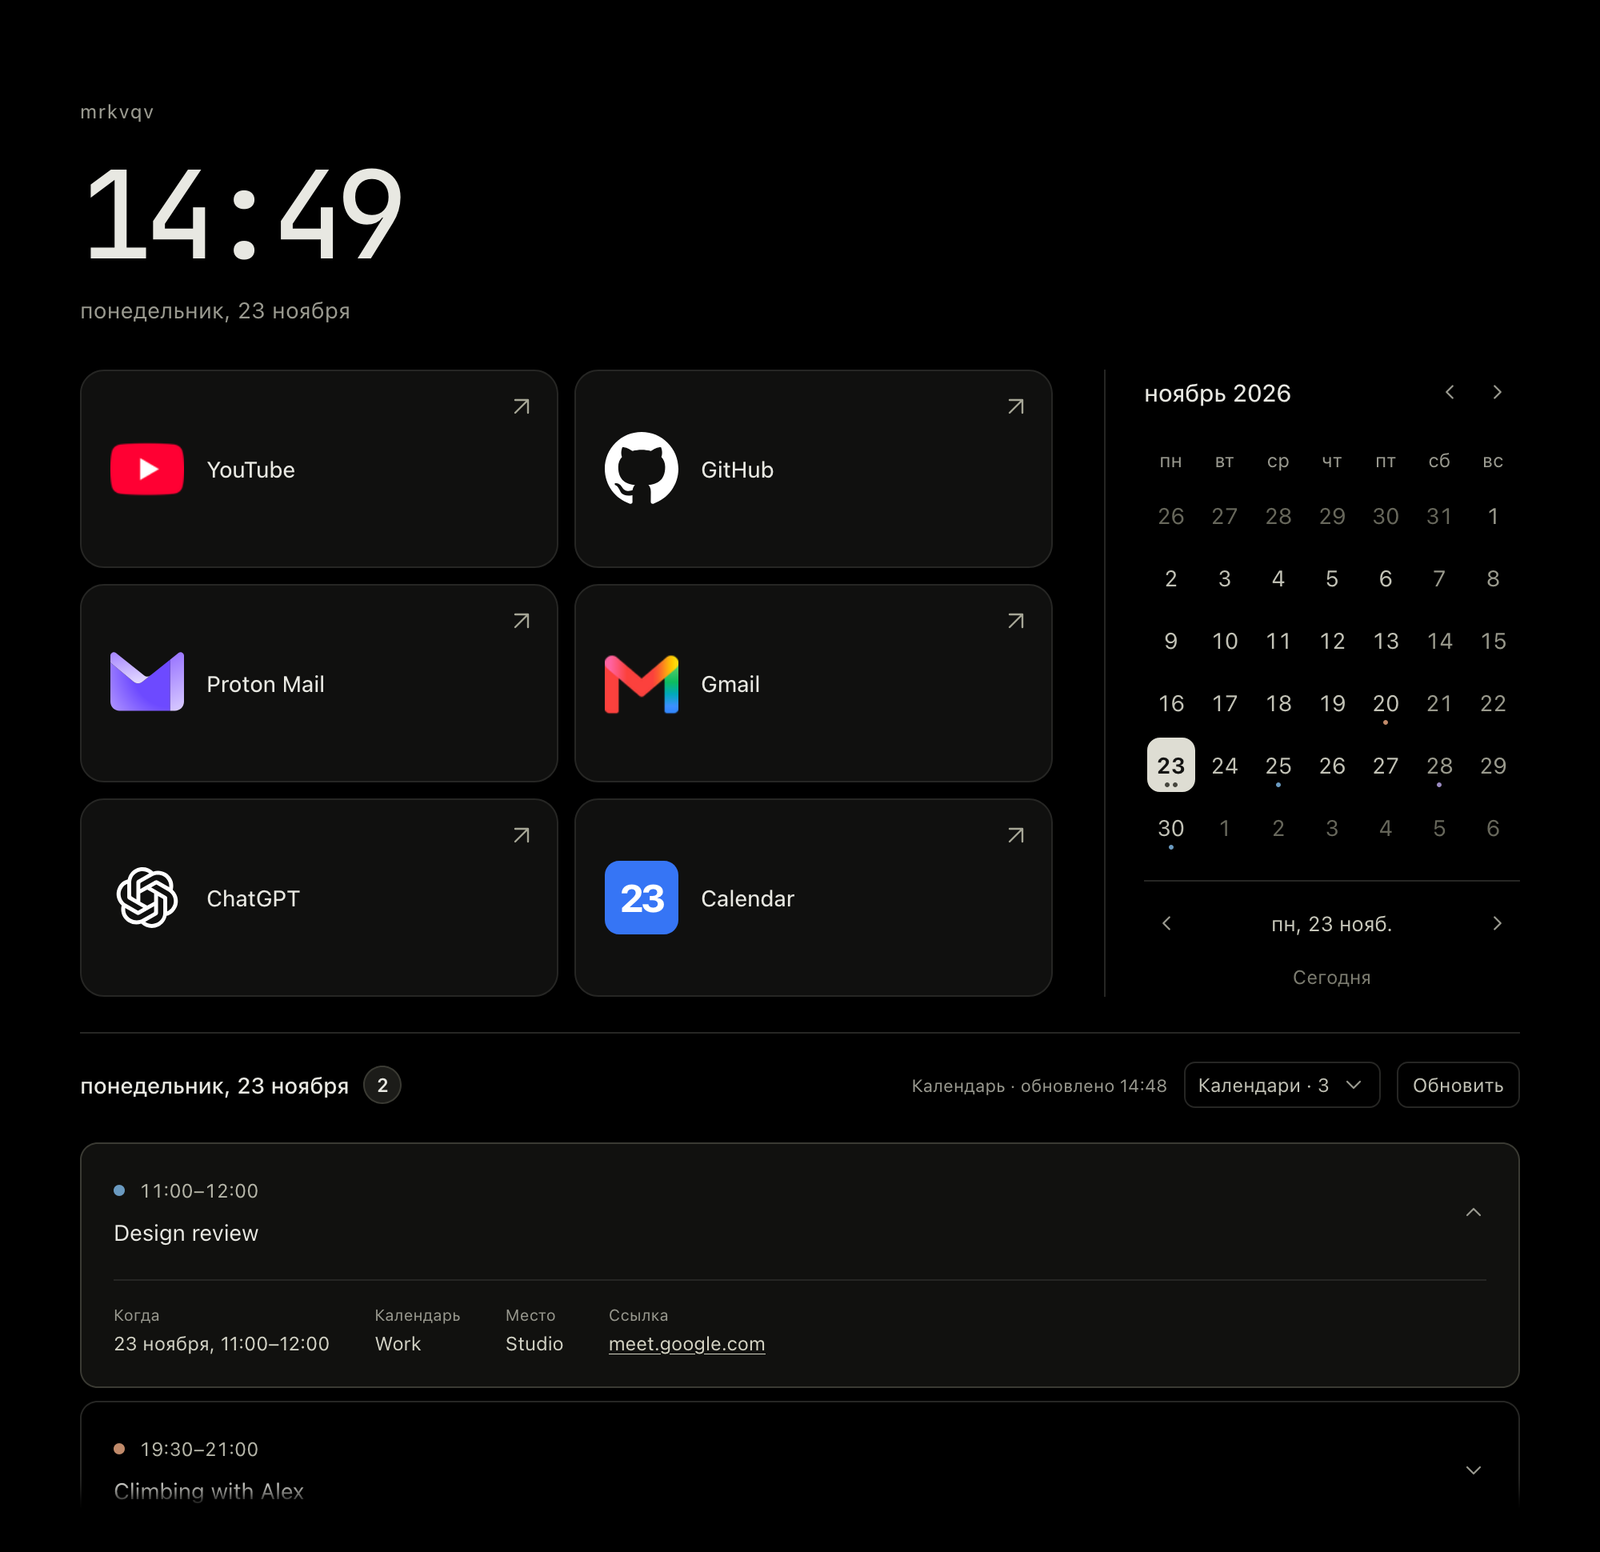
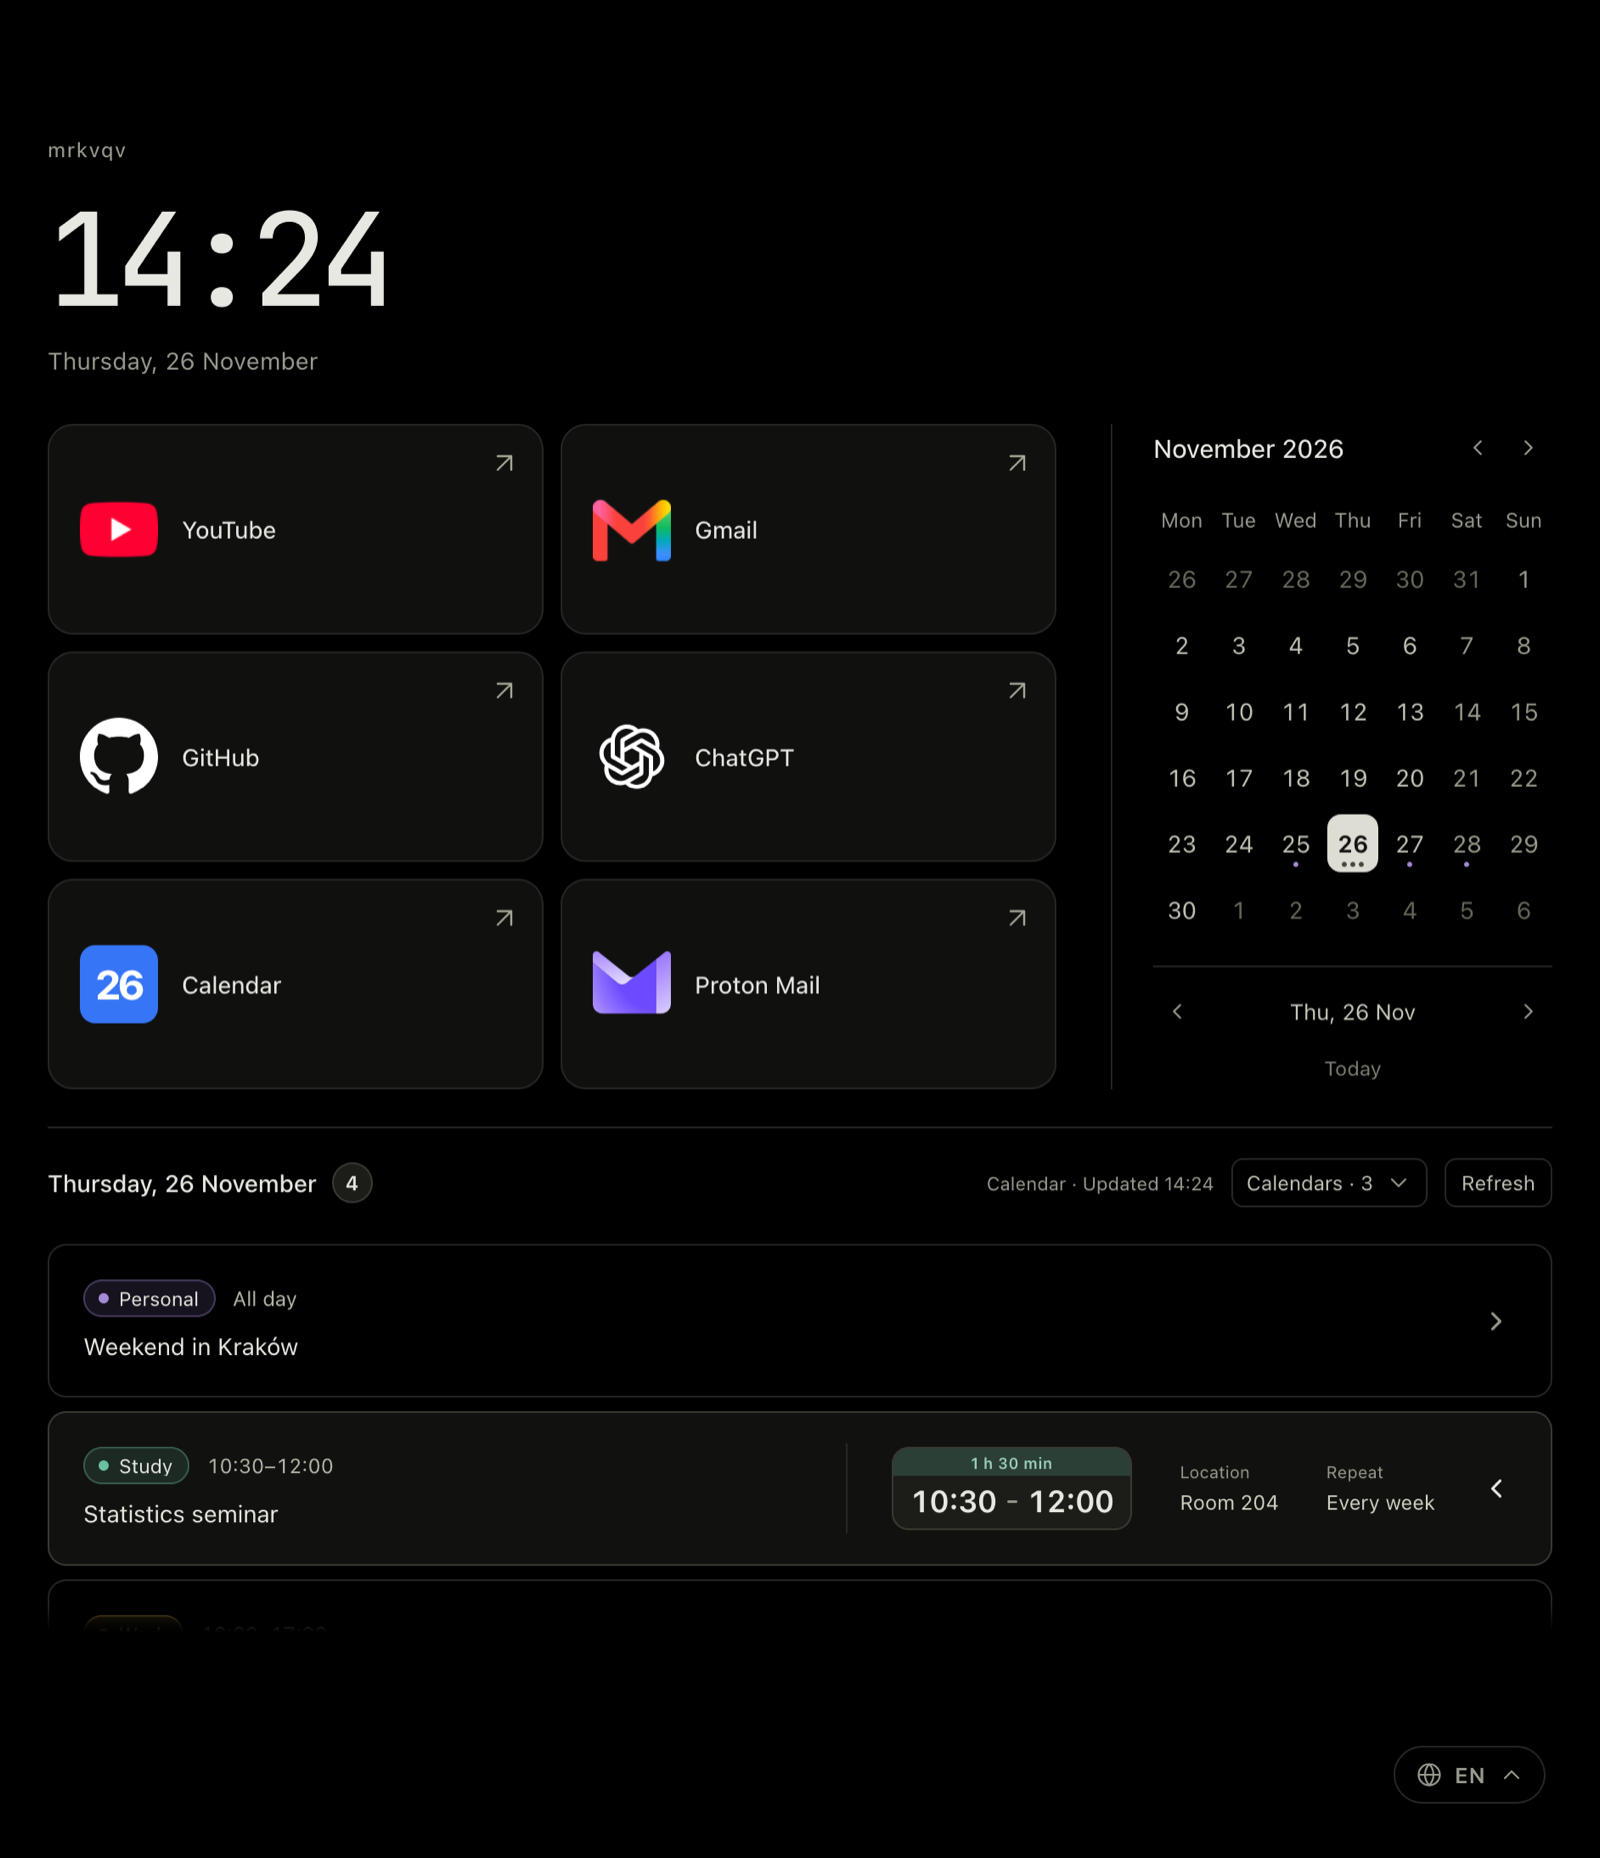
Simplify README and update preview

diff --git a/README.md b/README.md
@@ -3,116 +3,49 @@
 [![Latest release](https://img.shields.io/github/v/release/mrkvqv/zen-home?label=version)](https://github.com/mrkvqv/zen-home/releases/latest)
 [![License: MIT](https://img.shields.io/github/license/mrkvqv/zen-home)](LICENSE)
 
-A personal start page for [Zen Browser](https://zen-browser.app), built as a Firefox extension: a clock, your Zen Essentials and Apple Calendar events — fast, local and with no external requests.
+A start page for [Zen Browser](https://zen-browser.app): a clock, your Zen Essentials and Apple Calendar events. Everything stays on your Mac.
 
-![Zen Home in the dark theme](docs/preview.png)
+![Zen Home](docs/preview.png)
 
 ## Features
 
-- **Opens where you expect it**: at Zen startup, from the toolbar button and with <kbd>⌃</kbd><kbd>⇧</kbd><kbd>H</kbd>. Keeps a single start tab in the current Space instead of piling up duplicates.
-- **Essentials**: shows the tabs pinned to Zen Essentials. A click switches to the already open pinned tab, <kbd>⌘</kbd>-click opens the site in a new tab.
-- **Calendar**: month grid with event dots and a day agenda. Each card shows its calendar as a colored tag; a click slides the details in from the right: a date or time tile, location, link, recurrence, alerts and attendees.
-- **Four languages**: Russian, English, Polish and Belarusian, switched from the bottom-right corner. Dates and plural forms follow the language.
-- **Light and dark theme** that follow macOS automatically.
-- **Light on resources**: plain JavaScript modules with no framework and no build step; data refreshes every 30 seconds only while the page is visible.
+- Opens at startup and with <kbd>⌃</kbd><kbd>⇧</kbd><kbd>H</kbd>, one start tab per Space.
+- Essentials as cards: a click switches to the pinned tab.
+- Month calendar and day agenda. Event details slide in from the right: time or dates, location, recurrence and more.
+- Choose which calendars are shown.
+- English, Russian, Polish and Belarusian.
+- Light and dark theme from macOS.
 
-## How it works
+## Install
 
-```
-Zen Browser                              macOS
-┌──────────────────────────┐   HTTP    ┌────────────────────────────┐
-│ Zen Home extension       │ ────────▶ │ Zen Calendar Bridge.app    │
-│  home.html + js/*.js     │ 127.0.0.1 │  EventKit → Apple Calendar │
-│  background.js (tabs)    │   :8766   │  Zen session → Essentials  │
-└──────────────────────────┘ ◀──────── └────────────────────────────┘
-```
+Requires macOS 14+, Xcode Command Line Tools, Node.js 20+ and [pnpm](https://pnpm.io).
 
-The extension cannot read Apple Calendar or tell Essentials apart from ordinary pinned tabs, so a tiny native helper does that: **Zen Calendar Bridge**, a Swift app that runs in the background.
+1. Download `zen-home-X.Y.Z.xpi` from [Releases](https://github.com/mrkvqv/zen-home/releases/latest) and drag it into a Zen window.
+2. Install the calendar bridge — a small local app that reads Apple Calendar and Essentials:
 
-- It listens only on `127.0.0.1:8766` and requires a bearer token.
-- It accepts requests only from the extension's own origin.
-- It is read-only and never writes to the calendar.
-- Events are not stored on disk; the page keeps them in memory only. Only the list of Essentials is cached, so the page appears instantly.
+   ```sh
+   git clone https://github.com/mrkvqv/zen-home.git && cd zen-home
+   pnpm install
+   pnpm bridge:install
+   open ~/Applications/"Zen Calendar Bridge.app"   # allow Calendar access once
+   launchctl bootstrap gui/$(id -u) ~/Library/LaunchAgents/local.zen-calendar-bridge.plist
+   ```
 
-Google calendars work too: add your Google account in macOS **System Settings → Internet Accounts**, and its calendars show up in Apple Calendar and on this page.
+3. Run `pnpm bridge-key`, open the start page and paste the key.
 
-## Setup
+The bridge listens only on `127.0.0.1`, needs this key and never writes to your calendar.
 
-Requirements: macOS 14+, Xcode Command Line Tools (`xcode-select --install`), Node.js 20+ and [pnpm](https://pnpm.io).
+## Development
 
-```sh
-git clone https://github.com/mrkvqv/zen-home.git
-cd zen-home
-pnpm install
-```
+Load `src/manifest.json` in `about:debugging` → **Load Temporary Add-on**. Release builds of Zen need a signed copy: run `pnpm build` and upload the `.zip` to [addons.mozilla.org](https://addons.mozilla.org/developers/) as an unlisted add-on.
 
-### 1. Install the calendar bridge
-
-```sh
-pnpm bridge:install
-open ~/Applications/"Zen Calendar Bridge.app"   # allow Calendar access once
-launchctl bootstrap gui/$(id -u) ~/Library/LaunchAgents/local.zen-calendar-bridge.plist
-```
-
-The installer builds the app into `~/Applications`, creates a private token in `~/Library/Application Support/ZenCalendarBridge` and adds a LaunchAgent that keeps the bridge running. Check it with `pnpm bridge:test`.
-
-### 2. Try the extension
-
-1. In Zen, open `about:debugging#/runtime/this-firefox`.
-2. Click **Load Temporary Add-on…** and pick `src/manifest.json`.
-3. Press <kbd>⌃</kbd><kbd>⇧</kbd><kbd>H</kbd>, run `pnpm bridge-key` to copy the token, paste it on the page and click **Save**.
-
-A temporary add-on is removed when Zen restarts.
-
-### 3. Install it permanently
-
-Release builds of Zen only install add-ons signed by Mozilla. Signing is free, and an unlisted add-on is never published in the catalog.
-
-**Ready-made build**: download the signed `.xpi` from [Releases](https://github.com/mrkvqv/zen-home/releases/latest) and drag it into a Zen window. To sign your own changes, use one of the options below.
-
-**Through the website**: run `pnpm build`, then on [addons.mozilla.org](https://addons.mozilla.org/developers/addon/submit/distribution) choose **On your own** and upload `dist/zen_home-<version>.zip`. Once it is approved, install the signed `.xpi` from the version page.
-
-**From the command line**: create [API credentials](https://addons.mozilla.org/developers/addon/api/key/), copy `.env.example` to `.env`, fill in both values and run `pnpm sign`. The signed `.xpi` appears in `dist/`.
-
-Bump `version` in `src/manifest.json` before signing every new release.
-
-## Project structure
-
-```
-src/                  the extension
-├── manifest.json     permissions, home page override, keyboard shortcut
-├── background.js     a single start tab, switching to Essentials
-├── home.html         page markup
-├── home.css          styles, light and dark theme
-├── js/
-│   ├── home.js       entry point that wires the modules together
-│   ├── calendar.js   clock, date and month grid
-│   ├── agenda.js     day agenda, event cards, calendar list
-│   ├── pins.js       Essentials cards
-│   ├── bridge.js     requests to the local bridge
-│   └── dom.js        shared helpers
-└── assets/           clock font (JetBrains Mono, OFL) and service icons
-bridge/               Zen Calendar Bridge (Swift) with installer and tests
-scripts/              signing and token helpers
-```
-
-## Commands
-
-| Command               | What it does                                        |
-| --------------------- | --------------------------------------------------- |
-| `pnpm start`          | runs a separate Zen with a temporary profile        |
-| `pnpm lint`           | checks the extension against Mozilla's rules        |
-| `pnpm build`          | builds an unsigned `.zip` in `dist/`                |
-| `pnpm sign`           | signs the extension with Mozilla (needs `.env`)     |
-| `pnpm format`         | formats the code with Prettier                      |
-| `pnpm bridge:install` | builds and installs Zen Calendar Bridge             |
-| `pnpm bridge:test`    | checks the running bridge without printing any data |
-| `pnpm bridge-key`     | copies the bridge token to the clipboard            |
-
-## Keyboard shortcut
-
-<kbd>⌃</kbd><kbd>⇧</kbd><kbd>H</kbd> (Control+Shift+H) by default. Change it in `about:addons` → gear icon → **Manage Extension Shortcuts**.
+| Command            | What it does                      |
+| ------------------ | --------------------------------- |
+| `pnpm start`       | runs Zen with a temporary profile |
+| `pnpm lint`        | checks the extension              |
+| `pnpm build`       | builds the `.zip` in `dist/`      |
+| `pnpm bridge:test` | checks that the bridge is running |
 
 ## License
 
-[MIT](LICENSE). The bundled JetBrains Mono font is licensed under the [SIL Open Font License](src/assets/fonts/OFL.txt).
+[MIT](LICENSE). JetBrains Mono is under the [SIL Open Font License](src/assets/fonts/OFL.txt).
